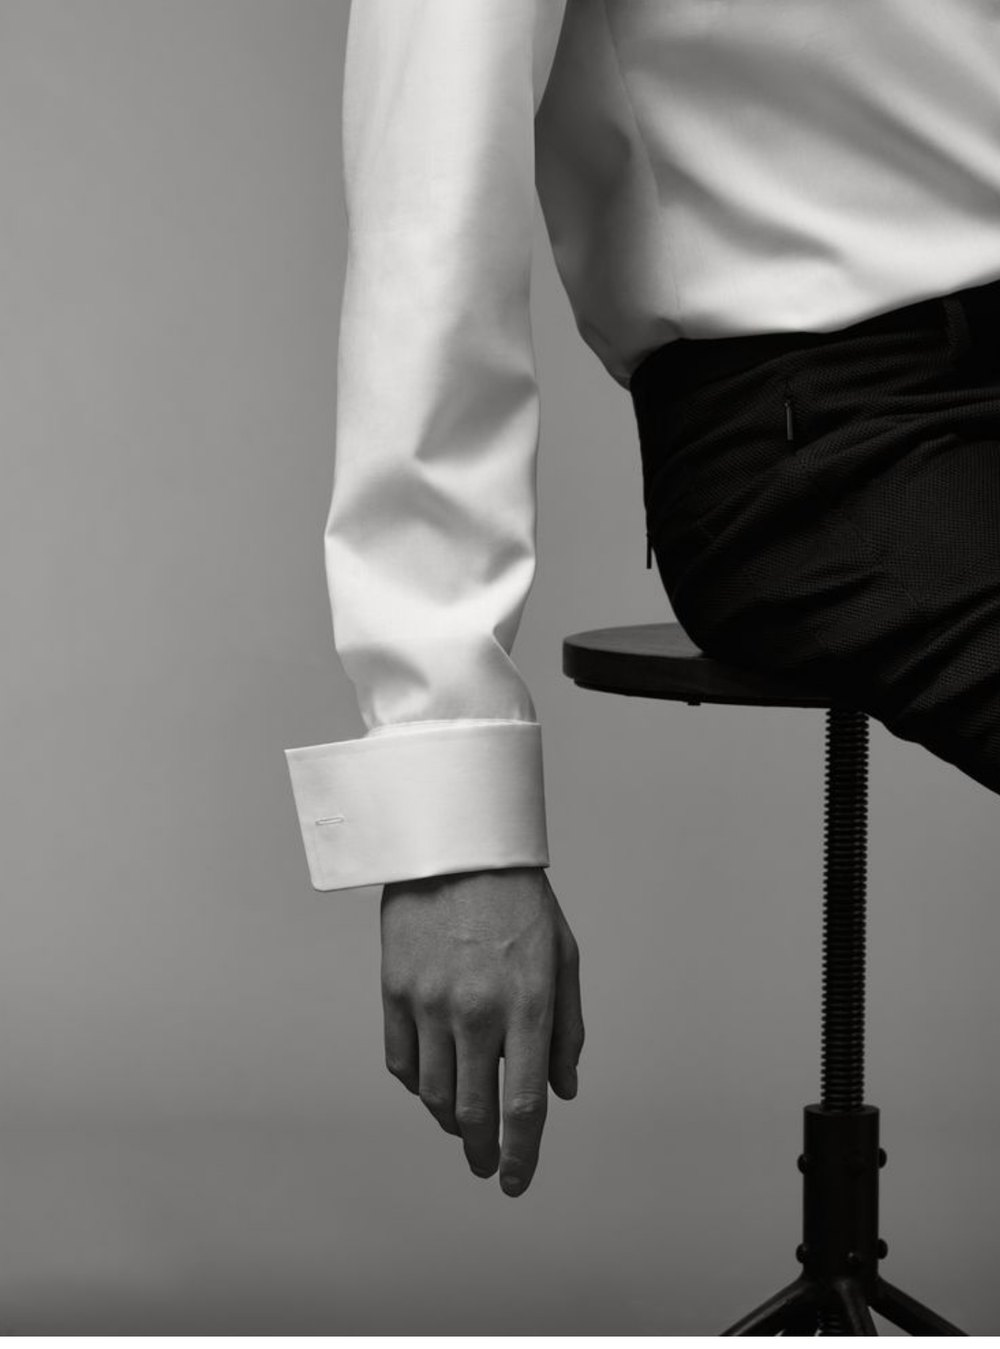
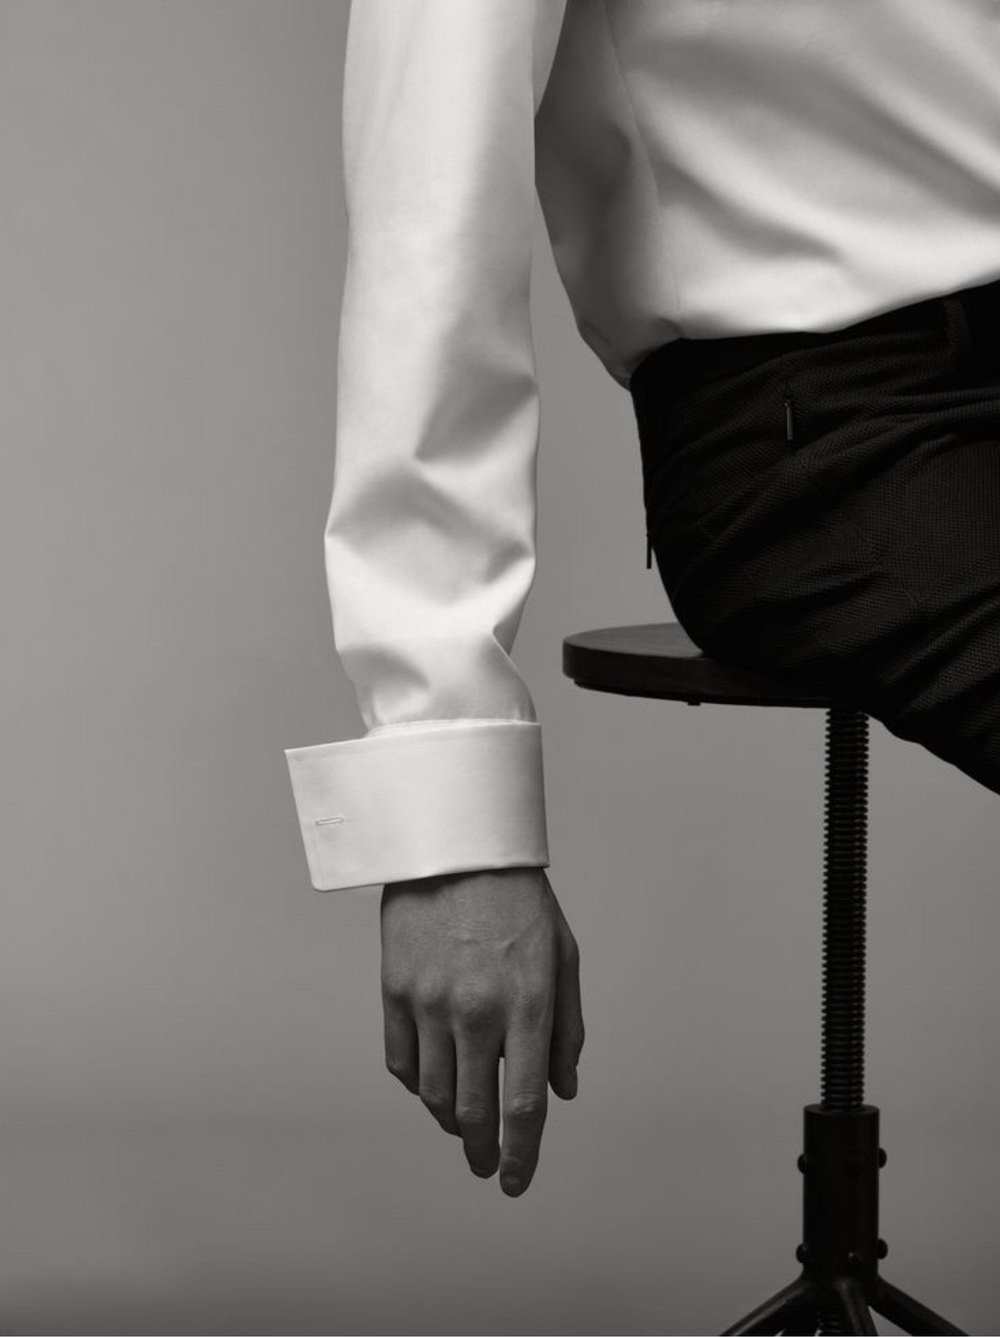
Home hero: just the photos; drop the welcome slide
- Remove the options band, and hide everything on top of the hero photo:
  the gilt frame, the shade and colour grading, the caption, the slide
  names, the counter and the shortcut buttons. The slider still turns.
- Drop the first (Welcome) slide; the zoom entrance opens on the new
  first slide's picture and no longer fades in a shade.
- Crop a 12px white band off the bottom of autumn-hero.jpg (it showed
  as a light strip at the hero's foot once the overlays were gone).

Claude-Session: https://claude.ai/code/session_01KCijX5vyfJFuXmjiHwZCgW

diff --git a/feed.html b/feed.html
@@ -422,7 +422,6 @@
                transition: opacity 0.42s ease; cursor: pointer; }
         .zpi.zpi-done { opacity: 0; pointer-events: none; }
         .zpi-tile { position: absolute; overflow: hidden; left: 20vw; top: 15vh; width: 60vw; height: 70vh; }
-        .zpi-tile::after { content: ""; position: absolute; inset: 0; background: rgba(12,12,12,0.42); opacity: var(--zpi-dim, 0); }
         .zpi-tile img { position: absolute; inset: 0; width: 100%; height: 100%; object-fit: cover; display: block; }
         .zpi-cue { position: absolute; left: 50%; bottom: calc(26px + env(safe-area-inset-bottom, 0px));
                    transform: translateX(-50%); font-size: 10px; letter-spacing: 4px; text-transform: uppercase;
@@ -430,10 +429,10 @@
         html.zpi-on, html.zpi-on body { overflow: hidden !important; overscroll-behavior: none; }
     </style>
     <div class="zpi" id="zpIntro" aria-hidden="true">
-        <div class="zpi-tile"><img src="assets/hero/intro-poster.jpg" alt="" fetchpriority="high"></div>
+        <div class="zpi-tile"><img src="assets/hero/autumn-hero.jpg?v=2" alt="" fetchpriority="high"></div>
         <span class="zpi-cue">Scroll</span>
     </div>
-    <script src="assets/zoom-intro.js?v=3"></script>
+    <script src="assets/zoom-intro.js?v=4"></script>
     <!-- Keep the header transparent over the hero, solid once the feed rises in. -->
     <script>
         // Transparent (white icons) while the home hero is in view; goes solid
@@ -481,12 +480,6 @@
                 <button type="button" class="hm-sc-b" data-sc="magazine"><svg viewBox="0 0 24 24" aria-hidden="true"><path d="M5 4h11a3 3 0 0 1 3 3v13H8a3 3 0 0 1-3-3z"/><path d="M5 17a3 3 0 0 1 3-3h11"/><path d="M9 8h6"/></svg><span>Magazine</span></button>
                 <button type="button" class="hm-sc-b" data-sc="upload"><svg viewBox="0 0 24 24" aria-hidden="true"><path d="M12 16V5"/><path d="M7.5 9.5 12 5l4.5 4.5"/><path d="M5 15v3a2 2 0 0 0 2 2h10a2 2 0 0 0 2-2v-3"/></svg><span>Sell a piece</span></button>
             </nav>
-            <!-- White band across the foot of the hero photo: the hero's options
-                 (Filter / Magazine / Sell a piece) on a looping slider. A tap fires
-                 the matching shortcut above, so each does exactly what it did. -->
-            <div class="hm-band" id="hmBand" aria-label="Shortcuts">
-                <div class="hm-band-track" id="hmBandTrack"></div>
-            </div>
         </section>
     </div>
 
@@ -1527,8 +1520,7 @@
         if (!host || !window.VeroLumina) return;
         // Each slide: the photo, its eyebrow / title / line, and what its button does.
         var S = [
-            { eyebrow: 'Welcome to', title: 'moravchick', description: 'Straight fashion.', media: 'assets/hero/intro-poster.jpg', btn: '', act: '', nav: 'Welcome' },   // no link on the welcome slide
-            { eyebrow: 'The Autumn Collection', title: 'The Collection', description: 'This season\u2019s edit \u2014 warm layers, soft wools and earthy tones.', media: 'assets/hero/autumn-hero.jpg', btn: 'Discover the collection', act: 'collection-page', href: 'category.html?cat=autumn', nav: 'The collection' },
+            { eyebrow: 'The Autumn Collection', title: 'The Collection', description: 'This season\u2019s edit \u2014 warm layers, soft wools and earthy tones.', media: 'assets/hero/autumn-hero.jpg?v=2', btn: 'Discover the collection', act: 'collection-page', href: 'category.html?cat=autumn', nav: 'The collection' },
             { eyebrow: 'Just In', title: 'New Arrivals', description: 'The latest pieces to land, fresh from our sellers.', media: 'assets/hero/women-slide.jpg', btn: 'See what\u2019s new', act: 'new-page', href: 'category.html?cat=new', nav: 'New arrivals' }
         ];
         var eyebrow = document.getElementById('hmLuEyebrow'), btn = document.getElementById('hmLuBtn');
@@ -1555,53 +1547,15 @@
         })();
     </script>
 <script src="assets/card-flip.js?v=4" defer></script>
-<style id="hm-band-css">
-    /* The band replaces the row of shortcut buttons on the photo. */
+<style id="hm-hero-plain">
+    /* The home hero is just the photos: no frame, no shade or colour grading,
+       no caption, slide names, counter or shortcut buttons on top. */
+    html:not(#om0):not(#om1):not(#om2):not(#om3):not(#om4):not(#om5):not(#om6) .hm-lu::before { display: none !important; }
+    html:not(#om0):not(#om1):not(#om2):not(#om3):not(#om4):not(#om5):not(#om6) .hm-lu-pic { filter: none !important; }
+    html:not(#om0):not(#om1):not(#om2):not(#om3):not(#om4):not(#om5):not(#om6) .hm-lu .hm-hero-cap,
+    html:not(#om0):not(#om1):not(#om2):not(#om3):not(#om4):not(#om5):not(#om6) .hm-lu .lu-nav,
+    html:not(#om0):not(#om1):not(#om2):not(#om3):not(#om4):not(#om5):not(#om6) .hm-lu .lu-count,
     html:not(#om0):not(#om1):not(#om2):not(#om3):not(#om4):not(#om5):not(#om6) #hmShortcuts { display: none !important; }
-    .hm-band { position: absolute; left: 0; right: 0; bottom: 0; z-index: 6; height: 30px; background: #fff;
-               overflow: hidden; display: flex; align-items: center; }
-    .hm-band-track { display: flex; align-items: center; flex: none; white-space: nowrap; will-change: transform;
-                     animation: hmBandLoop 16s linear infinite; }
-    .hm-band:hover .hm-band-track, .hm-band.is-held .hm-band-track { animation-play-state: paused; }
-    @keyframes hmBandLoop { from { transform: translateX(0); } to { transform: translateX(-50%); } }
-    html:not(#om0):not(#om1):not(#om2):not(#om3):not(#om4):not(#om5):not(#om6) .hm-band-item {
-        display: inline-flex; align-items: center; gap: 7px; height: 30px; padding: 0 18px; border: 0; background: none;
-        color: #000 !important; cursor: pointer; font-family: 'Cormorant Garamond', 'Bodoni Moda', Georgia, serif !important;
-        font-size: 10px; font-weight: 500; letter-spacing: 2.4px; text-transform: uppercase !important; }
-    .hm-band-item svg { display: none !important; }   /* text only */
-    .hm-band-dot { flex: none; width: 3px; height: 3px; background: #c9a96e; transform: rotate(45deg); }
-    /* The slide names sit just above the band instead of under it. */
-    html:not(#om0):not(#om1):not(#om2):not(#om3):not(#om4):not(#om5):not(#om6) .hs-om .hm-lu .lu-nav { bottom: -100px !important; }
-    @media (prefers-reduced-motion: reduce) { .hm-band-track { animation: none; } }
 </style>
-<script>
-(function heroBand() {
-    var sc = document.getElementById('hmShortcuts'), band = document.getElementById('hmBand'), track = document.getElementById('hmBandTrack');
-    if (!sc || !band || !track) return;
-    var btns = [].slice.call(sc.querySelectorAll('[data-sc]'));
-    if (!btns.length) return;
-    // One run of the options, repeated so the strip is always wider than the
-    // screen; the whole run is then doubled for a seamless loop (−50%).
-    var one = btns.map(function (b) {
-        return '<button type="button" class="hm-band-item" data-band="' + b.dataset.sc + '">' + b.innerHTML + '</button><span class="hm-band-dot" aria-hidden="true"></span>';
-    }).join('');
-    var run = one;
-    track.innerHTML = run;
-    var guard = 0;
-    while (track.scrollWidth < band.clientWidth * 1.2 && guard++ < 8) { run += one; track.innerHTML = run; }
-    track.innerHTML = run + run;
-    track.style.animationDuration = Math.max(10, Math.round(track.scrollWidth / 2 / 40)) + 's';   // ~40px/s
-    track.addEventListener('click', function (e) {
-        var it = e.target.closest('[data-band]'); if (!it) return;
-        e.preventDefault(); e.stopPropagation();
-        var b = sc.querySelector('[data-sc="' + it.dataset.band + '"]');
-        if (b) b.click();
-    });
-    // Hold the slider while a finger is on it.
-    band.addEventListener('touchstart', function () { band.classList.add('is-held'); }, { passive: true });
-    band.addEventListener('touchend', function () { band.classList.remove('is-held'); });
-    band.addEventListener('touchcancel', function () { band.classList.remove('is-held'); });
-})();
-</script>
 </body>
 </html>

diff --git a/assets/zoom-intro.js b/assets/zoom-intro.js
@@ -41,7 +41,6 @@
         tile.style.width  = (w0 + (t.w - w0) * e).toFixed(1) + 'px';
         tile.style.height = (h0 + (t.h - h0) * e).toFixed(1) + 'px';
         el.style.setProperty('--zpi-cue', String(1 - Math.min(1, p * 4)));
-        el.style.setProperty('--zpi-dim', String(e));   // the slider's scrim, faded in
     }
     size(0);
     window.addEventListener('resize', function () { if (!started) size(0); });
